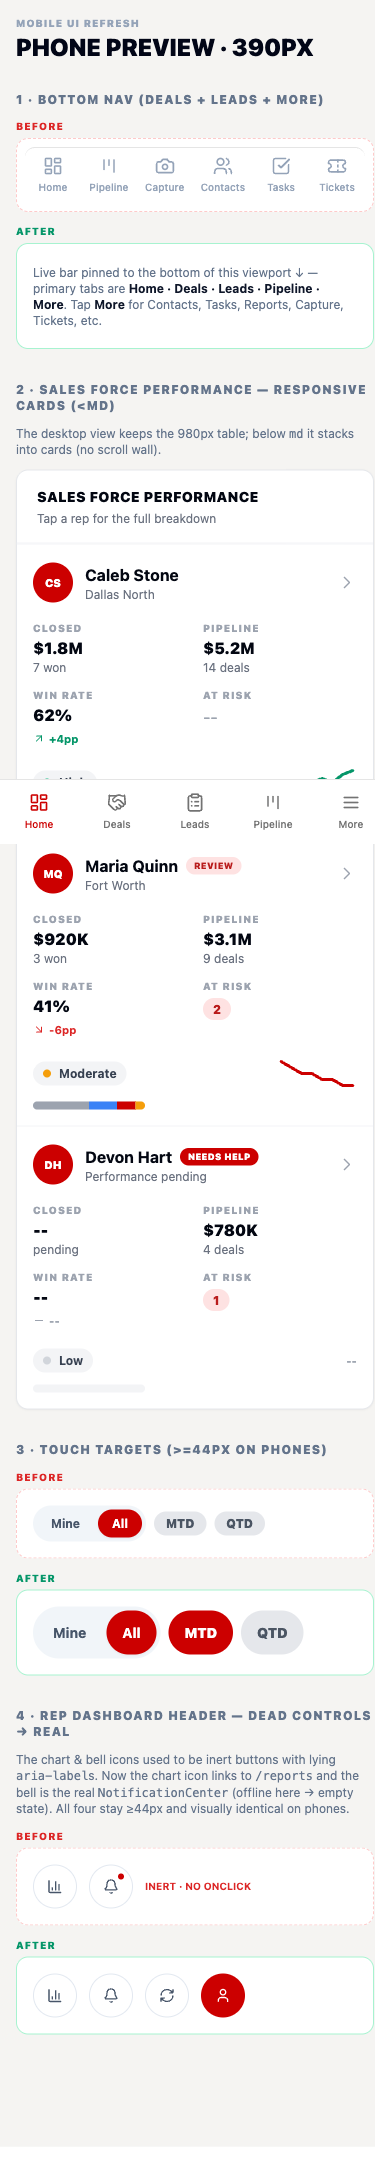
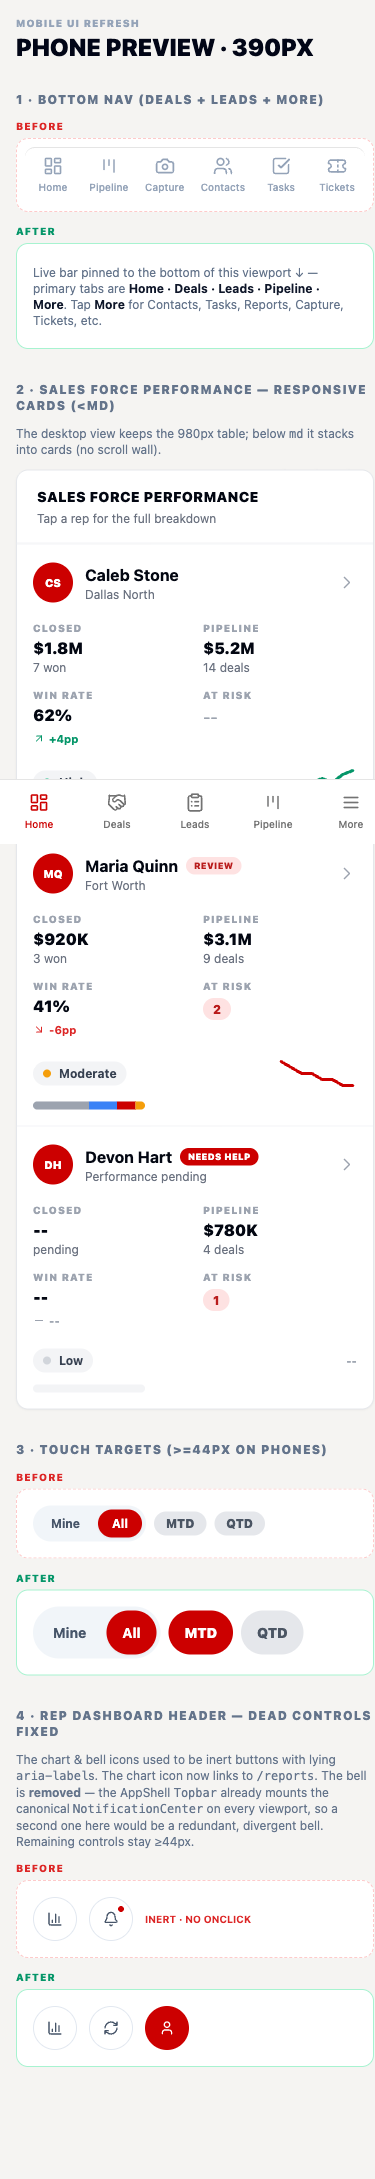
fix(rep-dashboard): drop the redundant header bell instead of mounting a 2nd one
Codex review on #557 found that AppShell's Topbar already mounts
<NotificationCenter/> on every viewport (mobile + desktop), so adding one to
the dashboard header created two independent bells with divergent unread/open
state (P3), and the page-level bell wouldn't show a badge until opened (P2).

Resolve both by removing the dashboard-header bell and relying on the Topbar's
canonical NotificationCenter (reachable on all viewports). The opt-in props
(triggerClassName / triggerAriaLabel) drop out with the bell, so
notification-center.tsx is back to byte-exact main.

Charts -> /reports link is unchanged (Codex did not flag it).

- rep-dashboard-page.tsx: remove the bell + NotificationCenter import.
- notification-center.tsx: reverted to main; prop test deleted.
- harness Section 4 + rep-dashboard test updated to assert no page-level bell.

diff --git a/client/src/components/__harness__/mobile-ui-harness.tsx b/client/src/components/__harness__/mobile-ui-harness.tsx
@@ -12,16 +12,9 @@ import {
 } from "lucide-react";
 import { Link } from "react-router-dom";
 import { MobileNavView } from "@/components/layout/mobile-nav";
-import { NotificationCenter } from "@/components/notifications/notification-center";
 import { RepPerfCard, type RepPerfView } from "@/pages/director/director-dashboard-page";
 import { ScopeToggle } from "@/components/shared/scope-toggle";
 import { useState } from "react";
-
-// The rep dashboard header passes this exact class string to <NotificationCenter>.
-// Kept here verbatim so the preview matches the real toolbar (size-11 == the
-// siblings' h-11 w-11; same `size-*` group so tailwind-merge drops the base size-8).
-const NOTIFICATION_TRIGGER_CLASS =
-  "flex size-11 items-center justify-center rounded-full border border-slate-200 bg-white text-slate-600 hover:bg-slate-50 hover:text-slate-600 md:size-10";
 
 // Dev-only preview for the mobile UI refresh (bottom nav, responsive Sales Force
 // table, touch targets). Mirrors the shared-primitives harness pattern: real
@@ -192,13 +185,14 @@ export function MobileUiHarness() {
         />
       </Section>
 
-      <Section id="harness-toolbar-stubs" title="4 · Rep dashboard header — dead controls → real">
+      <Section id="harness-toolbar-stubs" title="4 · Rep dashboard header — dead controls fixed">
         <p className="text-xs text-slate-500">
           The chart &amp; bell icons used to be inert buttons with lying{" "}
-          <code>aria-label</code>s. Now the chart icon links to{" "}
-          <code>/reports</code> and the bell is the real{" "}
-          <code>NotificationCenter</code> (offline here → empty state). All four
-          stay ≥44px and visually identical on phones.
+          <code>aria-label</code>s. The chart icon now links to{" "}
+          <code>/reports</code>. The bell is <strong>removed</strong> — the
+          AppShell <code>Topbar</code> already mounts the canonical{" "}
+          <code>NotificationCenter</code> on every viewport, so a second one here
+          would be a redundant, divergent bell. Remaining controls stay ≥44px.
         </p>
         <BeforeAfter
           before={
@@ -230,7 +224,6 @@ export function MobileUiHarness() {
               >
                 <BarChart3 className="h-4 w-4" />
               </Link>
-              <NotificationCenter triggerAriaLabel="Notifications" triggerClassName={NOTIFICATION_TRIGGER_CLASS} />
               <button
                 type="button"
                 aria-label="Refresh dashboard"

diff --git a/client/src/pages/dashboard/rep-dashboard-page.test.tsx b/client/src/pages/dashboard/rep-dashboard-page.test.tsx
@@ -81,11 +81,6 @@ vi.mock("@/components/ui/button", () => ({
 vi.mock("@/components/ui/badge", () => ({
   Badge: ({ children, className }: { children: ReactNode; className?: string }) => <span className={className}>{children}</span>,
 }));
-vi.mock("@/components/notifications/notification-center", () => ({
-  NotificationCenter: ({ triggerClassName }: { triggerClassName?: string }) => (
-    <button type="button" aria-label="Notifications" className={triggerClassName} data-testid="notification-center" />
-  ),
-}));
 
 const dashboardData = {
   activeLeads: { count: 4 },
@@ -384,12 +379,14 @@ describe("RepDashboardPage", () => {
     expect(html).not.toContain('aria-label="Open charts"');
   });
 
-  it("replaces the inert notifications bell with the real NotificationCenter", () => {
+  it("drops the notifications bell from the dashboard header (the Topbar owns it)", () => {
     const html = renderDashboard();
 
-    expect(html).toContain('data-testid="notification-center"');
-    // The old non-functional bell button (and its fake overdue dot) is gone.
+    // The old non-functional bell button (and its fake overdue dot) is gone, and we do
+    // NOT mount a second NotificationCenter here — AppShell's Topbar already provides the
+    // canonical bell on every viewport, so a page-level one would diverge in unread state.
     expect(html).not.toContain('aria-label="Open notifications"');
+    expect(html).not.toContain('aria-label="Notifications"');
   });
 
   it("TimeRangeTabs default to YTD", () => {

diff --git a/client/src/components/notifications/notification-center.tsx b/client/src/components/notifications/notification-center.tsx
@@ -3,7 +3,6 @@ import { useNavigate } from "react-router-dom";
 import { Bell, CheckCheck } from "lucide-react";
 import { Button } from "@/components/ui/button";
 import { Badge } from "@/components/ui/badge";
-import { cn } from "@/lib/utils";
 import {
   Popover,
   PopoverContent,
@@ -32,13 +31,7 @@ function timeAgo(dateStr: string): string {
   return `${Math.floor(seconds / 86400)}d ago`;
 }
 
-export function NotificationCenter({
-  triggerClassName,
-  triggerAriaLabel,
-}: {
-  triggerClassName?: string;
-  triggerAriaLabel?: string;
-}) {
+export function NotificationCenter() {
   const navigate = useNavigate();
   const [open, setOpen] = useState(false);
   const { unreadCount, markAsRead, markAllAsRead } = useNotificationStream(open);
@@ -64,12 +57,7 @@ export function NotificationCenter({
     <Popover open={open} onOpenChange={setOpen}>
       <PopoverTrigger
         render={
-          <Button
-            variant="ghost"
-            size="icon"
-            aria-label={triggerAriaLabel}
-            className={cn("relative", triggerClassName)}
-          >
+          <Button variant="ghost" size="icon" className="relative">
             <Bell className="h-4 w-4" />
             {unreadCount > 0 && (
               <Badge

diff --git a/client/src/pages/dashboard/rep-dashboard-page.tsx b/client/src/pages/dashboard/rep-dashboard-page.tsx
@@ -4,7 +4,6 @@ import { Link, useNavigate } from "react-router-dom";
 import { useTasks } from "@/hooks/use-tasks";
 import { useKeepPreviousData } from "@/hooks/use-keep-previous-data";
 import { ActivityRangeSelect } from "@/components/dashboard/activity-range-select";
-import { NotificationCenter } from "@/components/notifications/notification-center";
 import { type ActivityRange } from "@trock-crm/shared/types";
 import { cn } from "@/lib/utils";
 import { buttonVariants, Button } from "@/components/ui/button";
@@ -627,10 +626,9 @@ export function RepDashboardPage() {
           >
             <BarChart3 className="h-4 w-4" />
           </Link>
-          <NotificationCenter
-            triggerAriaLabel="Notifications"
-            triggerClassName="flex size-11 items-center justify-center rounded-full border border-slate-200 bg-white text-slate-600 hover:bg-slate-50 hover:text-slate-600 md:size-10"
-          />
+          {/* No notifications bell here: AppShell's Topbar already mounts the
+              canonical <NotificationCenter/> on every viewport, so a second one
+              would be a redundant bell with divergent unread state. */}
           <button
             type="button"
             aria-label="Refresh dashboard"
